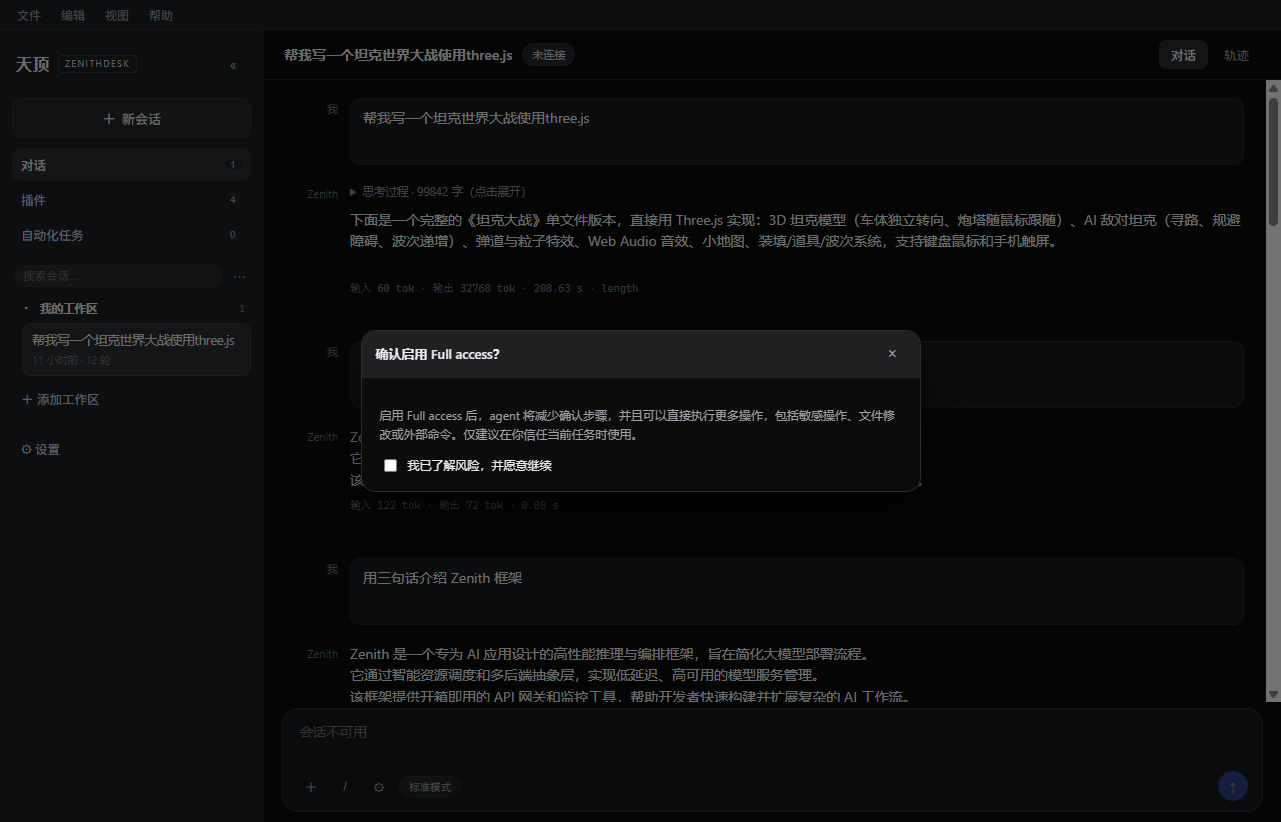
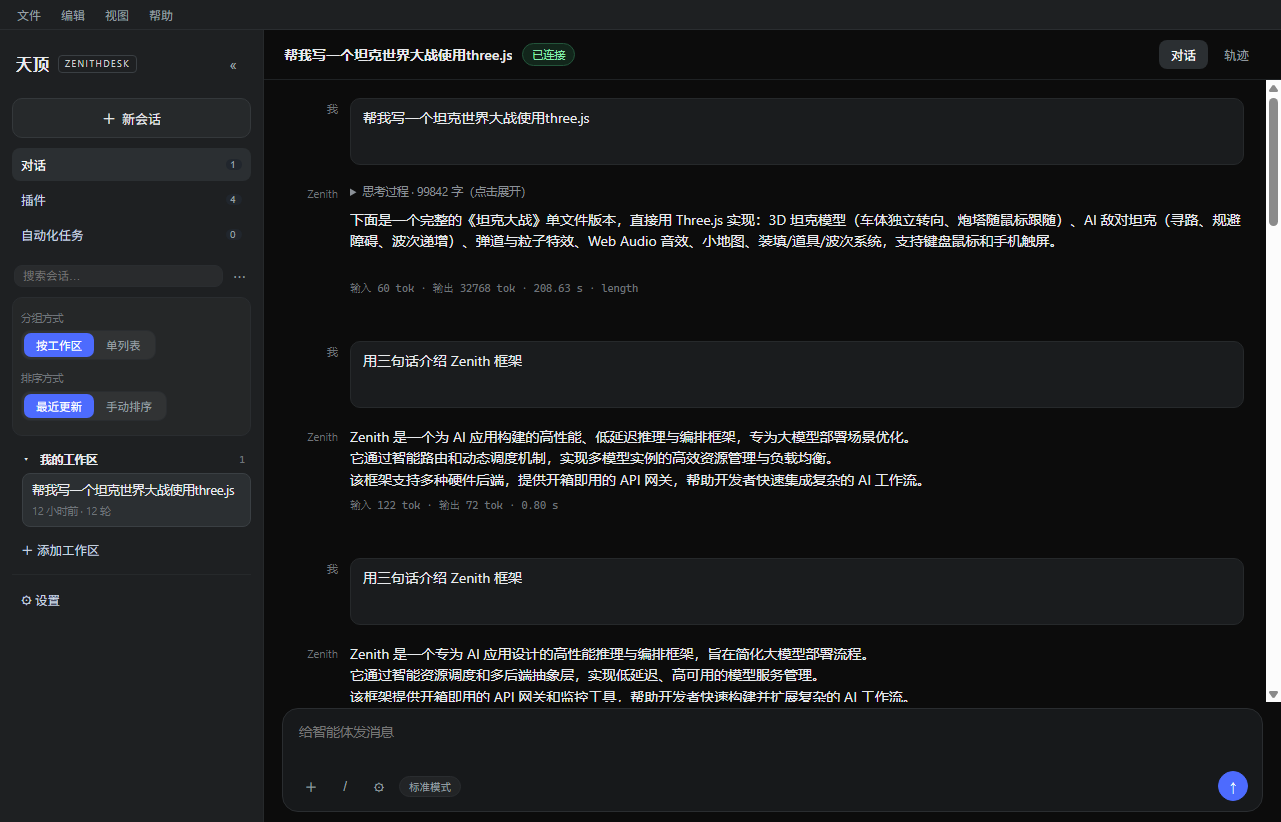
feat(ui): 手动拖拽排序 + 上下文构成用网关精确值
拖拽排序（orderBy=manual）
- 选中「手动排序」后会话行可拖：dragstart/dragover/drop 重排
- 主进程新增 sessions:reorder(ids)：按数组顺序写 session.order，summarize 回传
- 排序持久化，重开应用仍按该顺序

上下文构成
- 改用网关 /zenith/ai/status 的 context_breakdown（系统提示词/对话消息/工具），
  悬停显示真实拆分；网关无值时才退回本地估算

（前一批的图片附件 / 访问模式 / Enter 排队 / 轨迹工具栏已在上一提交完成，
本提交补齐剩余两项）

diff --git a/src/components/WorkspaceBrowser.jsx b/src/components/WorkspaceBrowser.jsx
@@ -29,6 +29,7 @@ export default function WorkspaceBrowser({
   onDelete,
   onRename,
   onMove,
+  onReorder,
   lang: langProp,
 }) {
   const lang = normLang(langProp)
@@ -43,6 +44,7 @@ export default function WorkspaceBrowser({
   const [orderBy, setOrderBy] = useState('updated') // updated | manual
   const [opts, setOpts] = useState(false)
   const [expanded, setExpanded] = useState({})
+  const [dragId, setDragId] = useState(null)
 
   const COMMON = 5 // 每个工作区先显示条数
 
@@ -58,6 +60,8 @@ export default function WorkspaceBrowser({
     }
     if (orderBy === 'updated') {
       list = [...list].sort((a, b) => new Date(b.updatedAt || 0) - new Date(a.updatedAt || 0))
+    } else {
+      list = [...list].sort((a, b) => (a.order || 0) - (b.order || 0))
     }
     return list
   }, [sessions, query, orderBy])
@@ -73,7 +77,26 @@ export default function WorkspaceBrowser({
   const renderRow = (s) => (
     <div
       key={s.id}
-      className={`dsh-session ${s.id === activeId ? 'active' : ''}`}
+      className={`dsh-session ${s.id === activeId ? 'active' : ''} ${orderBy === 'manual' ? 'draggable' : ''}`}
+      draggable={orderBy === 'manual'}
+      onDragStart={() => setDragId(s.id)}
+      onDragOver={(e) => {
+        if (orderBy === 'manual') e.preventDefault()
+      }}
+      onDrop={(e) => {
+        if (orderBy !== 'manual' || !dragId || dragId === s.id) return
+        e.preventDefault()
+        e.stopPropagation()
+        const wsItems = filtered.filter((x) => (x.workspaceId || 'default') === (s.workspaceId || 'default'))
+        const ids = wsItems.map((x) => x.id)
+        const from = ids.indexOf(dragId)
+        const to = ids.indexOf(s.id)
+        if (from < 0 || to < 0) return
+        ids.splice(to, 0, ids.splice(from, 1)[0])
+        onReorder?.(ids)
+        setDragId(null)
+      }}
+      onDragEnd={() => setDragId(null)}
       onClick={() => onSelect(s.id)}
       onDoubleClick={() => {
         setEditing(s.id)

diff --git a/src/App.jsx b/src/App.jsx
@@ -431,16 +431,18 @@ export default function App() {
   const ctxTokens = Number(status?.engine?.last_context_tokens) || 0
   const ctxCap = Number(status?.engine?.kv_capacity_tokens) || 0
   const ctxPercent = ctxCap > 0 ? (ctxTokens / ctxCap) * 100 : 0
-  const sysTokens = settings?.systemPrompt ? Math.round(settings.systemPrompt.length / 4) : 0
-  const msgTokens = Math.max(0, ctxTokens - sysTokens)
-  const ctxBreakdown = ctxCap
+  // 优先用网关回报的精确构成（/zenith/ai/status 的 context_breakdown）
+  const bd = status?.context_breakdown
+  const ctxLines = bd
     ? [
-        `${t(lang, '上下文已用', 'context used')} ${ctxTokens} / ${ctxCap} tok`,
-        `${t(lang, '系统提示词', 'system')} ${sysTokens}`,
-        `${t(lang, '对话消息', 'messages')} ${msgTokens}`,
-        `${t(lang, '工具', 'tools')} 0`,
-      ].join('\n')
-    : ''
+        `${t(lang, '上下文已用', 'context used')} ${bd.prompt_tokens} / ${ctxCap} tok`,
+        `${t(lang, '系统提示词', 'system')} ${bd.system_tokens}`,
+        `${t(lang, '对话消息', 'messages')} ${bd.message_tokens}`,
+        `${t(lang, '工具', 'tools')} ${bd.tool_tokens}`,
+        bd.images ? `${t(lang, '图片', 'images')} ${bd.images}` : '',
+      ].filter(Boolean)
+    : []
+  const ctxBreakdown = ctxLines.join('\n')
 
   const wsSessions = sessions.filter((s) => (s.workspaceId || 'default') === activeWorkspace)
 
@@ -518,6 +520,10 @@ export default function App() {
               onDelete={deleteSession}
               onRename={renameSession}
               onMove={moveSession}
+              onReorder={async (ids) => {
+                const next = await api.sessionsReorder(ids)
+                if (next) applyState(next)
+              }}
               lang={lang}
             />
           </div>

diff --git a/src/styles.css b/src/styles.css
@@ -1559,3 +1559,8 @@ html[data-theme='light'] .mode-chip { background: rgb(0 0 0 / 4%); }
   border: 1px solid var(--border); border-radius: 999px;
 }
 .trace-collapsed { padding: 6px 10px; font-size: 11px; color: #6f7479; }
+
+/* 手动排序：可拖拽会话 */
+.dsh-session.draggable { cursor: grab; }
+.dsh-session.draggable:active { cursor: grabbing; }
+.dsh-session.draggable:hover { outline: 1px dashed var(--border); }
